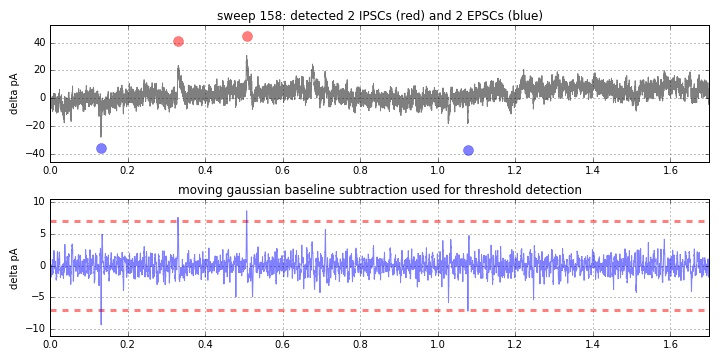
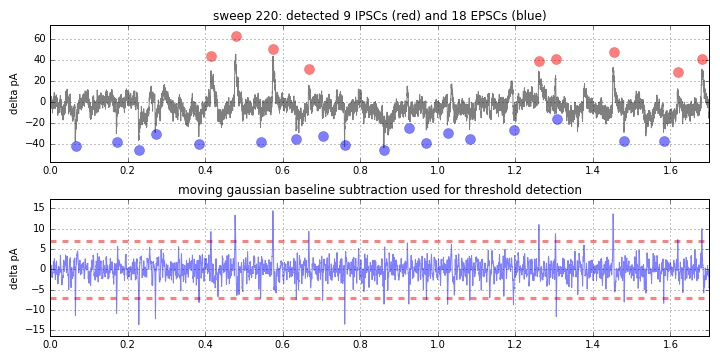
epsc/ipsc tests

diff --git a/doc/uses/EPSCs-and-IPSCs/02.py b/doc/uses/EPSCs-and-IPSCs/02.py
@@ -1,0 +1,198 @@
+"""
+using SWHLab to try and analyze ISPCs and EPSCs in the
+same voltage clamp (whole cell patch clamp) recording.
+"""
+
+import os
+import sys
+
+# in case our module isn't installed (running from this folder)
+thisPath=os.path.abspath('../../../')
+print(thisPath)
+if not thisPath in sys.path:
+    sys.path.append(thisPath)
+
+import swhlab
+import matplotlib.pyplot as plt
+import numpy as np
+
+def kernel_gaussian(size=100, sigma=None, forwardOnly=False):
+    """
+    return a 1d gassuan array of a given size and sigma.
+    If sigma isn't given, it will be 1/10 of the size, which is usually good.
+    """
+    if sigma is None:sigma=size/10
+    points=np.exp(-np.power(np.arange(size)-size/2,2)/(2*np.power(sigma,2)))
+    if forwardOnly:
+        points[:int(len(points)/2)]=0
+    return points/sum(points)
+
+def inspectKernel(abf,Kmb):
+    plt.figure(figsize=(5,5))
+    plt.plot(np.arange(len(Kmb))/abf.pointsPerMs,Kmb)
+    plt.xlabel("time (ms)")
+    plt.grid()
+    plt.title("kernel")
+    plt.margins(0,.1)
+    plt.show()
+
+def inspectMovingBaseline(abf,X,Y,Ymb):
+    plt.figure(figsize=(10,5))
+    ax1=plt.subplot(211)
+    plt.grid()
+    plt.plot(X,Y,alpha=.5)
+    plt.plot(X,Ymb,color='k',alpha=1)
+    plt.subplot(212,sharex=ax1)
+    plt.grid()
+    plt.axhline(0,color='k')
+    plt.plot(X,Y-Ymb,color='r',alpha=.5)
+    plt.margins(0,.1)
+    plt.axis([.70,1,None,None])
+    plt.tight_layout()
+    plt.show()
+
+def inspectFirstDeriv(abf,X,Y,dTms=1):
+
+    dT=int(dTms*abf.pointsPerMs)
+    dY=Y[dT:]-Y[:-dT]
+    plt.figure(figsize=(10,5))
+    plt.grid()
+    plt.margins(0,.1)
+    plt.plot(X[:len(dY)],dY)
+    plt.axis([.70,1,None,None])
+    plt.tight_layout()
+    plt.show()
+    return
+
+def inspectLPF(abf,X,Y,Ylpf):
+    plt.figure(figsize=(10,5))
+    ax1=plt.subplot(211)
+    plt.ylabel("original data")
+    plt.grid()
+    plt.plot(X,Y,alpha=.5)
+    plt.subplot(212,sharex=ax1)
+    plt.ylabel("lowpass filtered")
+    plt.grid()
+    plt.plot(X,Ylpf,color='b',alpha=.5)
+    plt.margins(0,.1)
+    plt.axis([.70,1,None,None])
+    plt.tight_layout()
+    plt.show()
+
+def inspectTrace(abf,X,Y):
+    plt.figure(figsize=(10,5))
+    plt.grid()
+    plt.plot(X,Y,color='b',alpha=.5)
+    plt.margins(0,.1)
+    plt.axis([.70,1,None,None])
+    plt.tight_layout()
+    plt.show()
+
+def inspectTraces(abf,X,Y1,Y2):
+    plt.figure(figsize=(10,5))
+    ax1=plt.subplot(211)
+    plt.grid()
+    plt.plot(X,Y1,color='b',alpha=.5)
+    plt.subplot(212,sharex=ax1)
+    plt.grid()
+    plt.plot(X,Y2,color='b',alpha=.5)
+    plt.margins(0,.1)
+    plt.axis([.70,1,None,None])
+    plt.tight_layout()
+    plt.show()
+
+def linear_gaussian(Y, sigmaSize,forwardOnly=False):
+    pad=np.ones(sigmaSize)
+    Y=np.concatenate((pad*Y[0],Y,pad*Y[-1]))
+    Klpf=kernel_gaussian(size=sigmaSize,forwardOnly=forwardOnly)
+    return np.convolve(Y,Klpf,mode='same')[len(pad):-len(pad)]
+
+def indexPics(folder):
+    pics=[x for x in os.listdir(folder) if x.endswith(".png") or x.endswith(".jpg")]
+    pics=['<a href="%s"><img src="%s"></a>'%(x,x) for x in sorted(pics)]
+    with open(folder+"/index.html",'w') as f:
+        f.write("<html><body>"+"<br><br><br><br>".join(pics)+"</body></html>")
+
+def analyzeABF(abf):
+    abf=swhlab.ABF(abf)
+    data=[]
+    Xs=np.arange(abf.sweeps)*float(abf.sweepLength)/60.0
+    for sweep in range(abf.sweeps):
+        print("analyzing sweep %d of %d"%(sweep+1,abf.sweeps))
+        data.append(analyzeSweep(abf,sweep=sweep,m1=.3))
+    plt.figure(figsize=(10,5))
+    plt.grid()
+    plt.plot(Xs[:len(data)],data,'.',alpha=.5,ms=10)
+    plt.axhline(0,color='k',lw=1,ls='--')
+    for t in abf.comment_times:
+        plt.axvline(t/60,color='k',lw=2,ls='--',alpha=.5)
+    plt.margins(0,.1)
+    plt.xlabel("time (minutes)")
+    plt.ylabel("excitatory balance")
+    plt.show()
+
+    indexPics(r'C:\Users\swharden\Documents\temp')
+
+def analyzeSweep(abf,sweep,m1=None,m2=None,plotToo=False):
+    """
+    m1 and m2, if given, are in seconds.
+    returns [# EPSCs, # IPSCs]
+    """
+    abf.setsweep(sweep)
+    if m1 is None: m1=0
+    else: m1=m1*abf.pointsPerSec
+    if m2 is None: m2=-1
+    else: m2=m2*abf.pointsPerSec
+
+    # obtain X and Y
+    Yorig=abf.sweepY[int(m1):int(m2)]
+    X=np.arange(len(Yorig))/abf.pointsPerSec
+
+    Ylpf=linear_gaussian(Yorig,sigmaSize=abf.pointsPerMs*300,forwardOnly=False)
+    Yflat=Yorig-Ylpf
+
+    EPSCs,IPSCs=[],[]
+
+    if plotToo:
+        plt.figure(figsize=(15,6))
+        ax1=plt.subplot(211)
+        plt.title("%s sweep %d"%(abf.ID,sweep))
+        plt.grid()
+        plt.plot(X,Yorig,alpha=.5)
+        plt.plot(X,Ylpf,'k',alpha=.5,lw=2)
+        plt.margins(0,.2)
+
+        plt.subplot(212,sharex=ax1)
+        plt.title("gaussian baseline subtraction")
+        plt.grid()
+        plt.plot(X,Yflat,alpha=.5)
+        plt.axhline(0,color='k',lw=2,alpha=.5)
+
+        plt.tight_layout()
+        plt.show()
+
+    # TEST GAUSS
+    hist, bin_edges = np.histogram(Yflat, density=True, bins=200)
+    peakPa=bin_edges[np.where(hist==max(hist))[0][0]+1]
+
+    if plotToo:
+        plt.figure()
+        plt.grid()
+        plt.plot(bin_edges[1:],hist,alpha=.5)
+        plt.axvline(0,color='k')
+        plt.axvline(peakPa,color='r',ls='--',lw=2,alpha=.5)
+        plt.semilogy()
+        plt.title("sweep data distribution")
+        plt.ylabel("power")
+        plt.xlabel("pA deviation")
+        plt.show()
+
+    return peakPa
+
+
+if __name__=="__main__":
+    #analyzeABF(r"X:\Data\2P01\2016\2016-09-01 PIR TGOT\16d07022.abf")
+    abf=swhlab.ABF(r"X:\Data\2P01\2016\2016-09-01 PIR TGOT\16d07022.abf")
+    analyzeSweep(abf,sweep=174,m1=.3,plotToo=True)
+    analyzeSweep(abf,sweep=199,m1=.3,plotToo=True)
+    print("DONE")

diff --git a/doc/uses/EPSCs-and-IPSCs/01.py b/doc/uses/EPSCs-and-IPSCs/01.py
@@ -118,26 +118,28 @@ def analyzeSweep(abf,sweep,m1=None,m2=None,plotToo=False):
     X=np.arange(len(Yorig))/abf.pointsPerSec
 
     # start by lowpass filtering (1 direction)
-    Klpf=kernel_gaussian(size=abf.pointsPerMs*10,forwardOnly=True)
-    Ylpf=np.convolve(Yorig,Klpf,mode='same')
-    Y=Ylpf # commit
+#    Klpf=kernel_gaussian(size=abf.pointsPerMs*10,forwardOnly=True)
+#    Ylpf=np.convolve(Yorig,Klpf,mode='same')
+#    Y=Ylpf # commit
 
     Kmb=kernel_gaussian(size=abf.pointsPerMs*10,forwardOnly=True)
-    Ymb=np.convolve(Y,Kmb,mode='same')
-    Y=Y-Ymb # commit
+    Ymb=np.convolve(Yorig,Kmb,mode='same')
+    Y=Yorig-Ymb # commit
 
     #Y1=np.copy(Y)
     #Y[np.where(Y>0)[0]]=np.power(Y,2)
     #Y[np.where(Y<0)[0]]=-np.power(Y,2)
 
     # event detection
-    thresh=7 # threshold for an event
+    thresh=5 # threshold for an event
     hitPos=np.where(Y>thresh)[0] # area above the threshold
     hitNeg=np.where(Y<-thresh)[0] # area below the threshold
     hitPos=np.concatenate((hitPos,[len(Y)-1])) # helps with the diff() coming up
     hitNeg=np.concatenate((hitNeg,[len(Y)-1])) # helps with the diff() coming up
     hitsPos=hitPos[np.where(np.abs(np.diff(hitPos))>10)[0]] # time point of EPSC
     hitsNeg=hitNeg[np.where(np.abs(np.diff(hitNeg))>10)[0]] # time point of IPSC
+    hitsNeg=hitsNeg[1:] # often the first one is in error
+    #print(hitsNeg[0])
 
     if plotToo:
         plt.figure(figsize=(10,5))
@@ -161,7 +163,7 @@ def analyzeSweep(abf,sweep,m1=None,m2=None,plotToo=False):
         plt.axhline(-thresh,color='r',ls='--',alpha=.5,lw=3)
         plt.plot(X,Y,color='b',alpha=.5)
 
-        plt.margins(0,.1)
+        plt.axis([X[0],X[-1],-thresh*1.5,thresh*1.5])
         plt.tight_layout()
         if type(plotToo) is str and os.path.isdir(plotToo):
             print('saving %s/%05d.jpg'%(plotToo,sweep))
@@ -184,8 +186,11 @@ def analyzeABF(abf):
     IPSCs=[]
     Xs=np.arange(abf.sweeps)*float(abf.sweepLength)/60.0
     for sweep in range(abf.sweeps):
-        #[hitsPos,hitsNeg]=analyzeSweep(abf,sweep=sweep,m1=.3,plotToo=r'C:\Users\swharden\Documents\temp')
-        [hitsPos,hitsNeg]=analyzeSweep(abf,sweep=sweep,m1=.3)
+        print("analyzing sweep %d of %d"%(sweep+1,abf.sweeps))
+        plotToo=False
+        if 0<Xs[sweep]<120:
+            plotToo=r'C:\Users\swharden\Documents\temp'
+        [hitsPos,hitsNeg]=analyzeSweep(abf,sweep=sweep,m1=.3,plotToo=plotToo)
         EPSCs.append(hitsPos/(float(abf.sweepLength)-.3))
         IPSCs.append(hitsNeg/(float(abf.sweepLength)-.3))
     EPSCsmooth=np.convolve(EPSCs,kernel_gaussian(20),mode='same')
@@ -206,5 +211,5 @@ def analyzeABF(abf):
     indexPics(r'C:\Users\swharden\Documents\temp')
 
 if __name__=="__main__":
-    analyzeABF(r"X:\Data\2P01\2016\2016-09-01 PIR TGOT\16d05020.abf")
+    analyzeABF(r"X:\Data\2P01\2016\2016-09-01 PIR TGOT\16d07022.abf")
     print("DONE")
